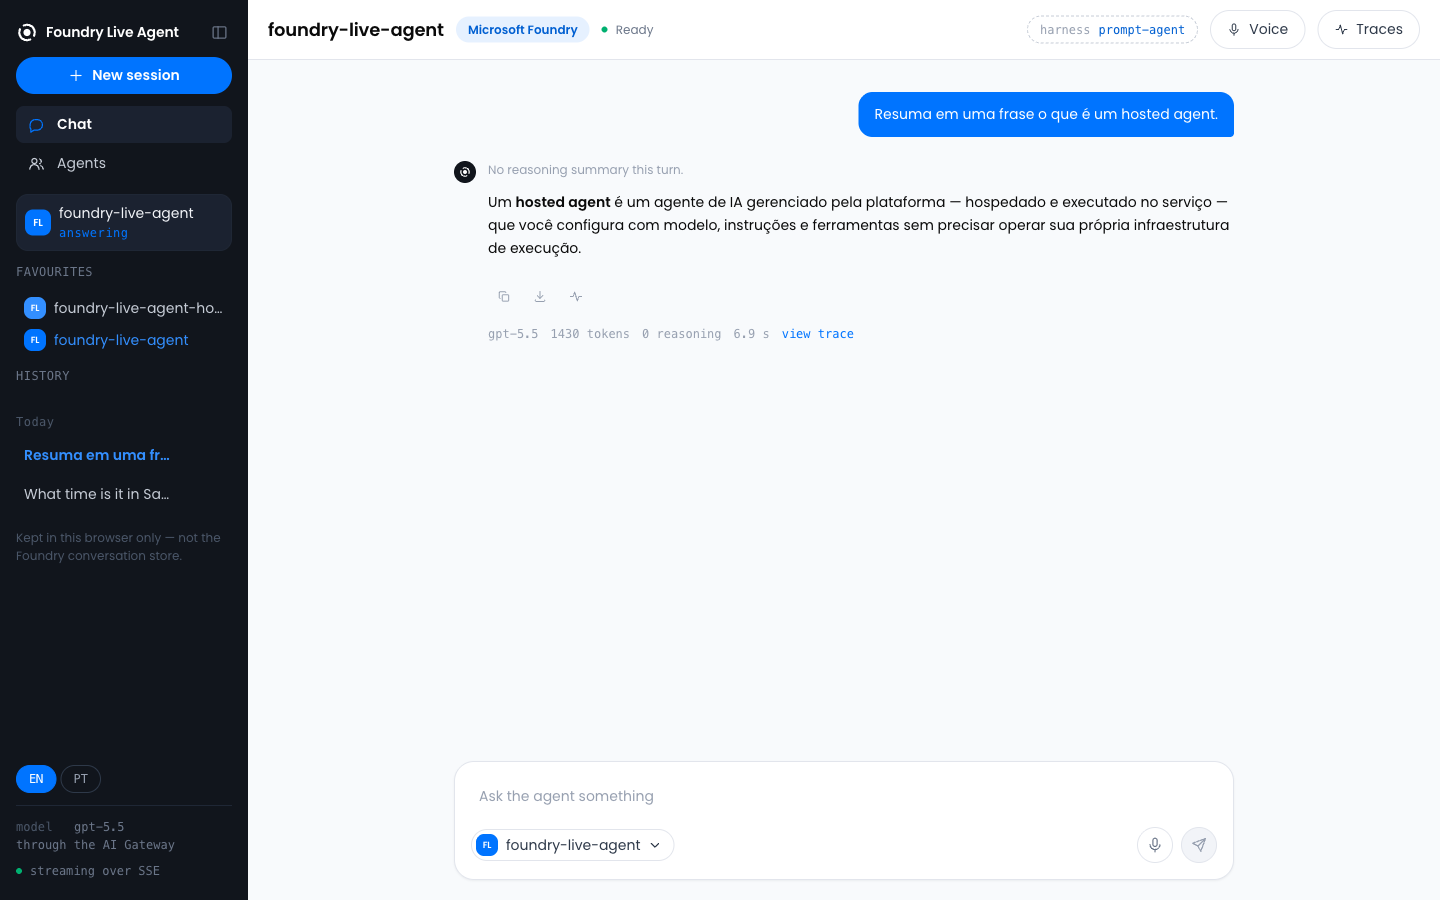
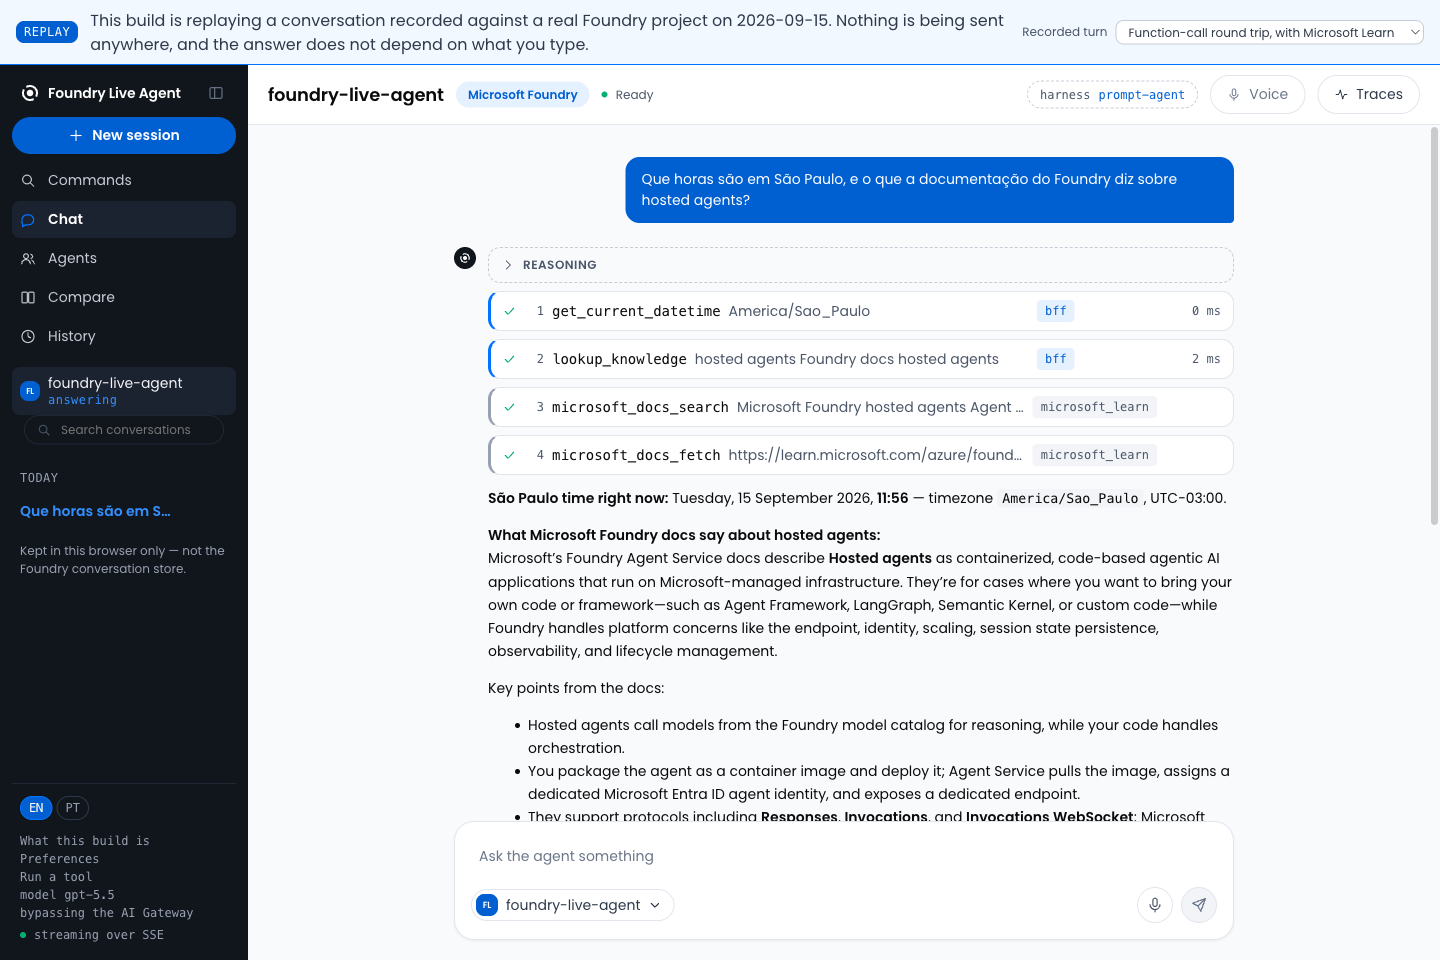
Refactor code structure for improved readability and maintainability

diff --git a/README.pt-BR.md b/README.pt-BR.md
@@ -9,11 +9,12 @@ Chat com streaming · atividade do agente ao vivo · traces distribuídos · voz
 
 <br />
 
-[![A interface do foundry-live-agent — barra lateral com favoritos e histórico local, uma resposta em streaming, o selo do harness no cabeçalho e o link do trace sob a resposta](docs/assets/screenshot-chat.png)](docs/assets/screenshot-chat.png)
+[![Um turno na interface do foundry-live-agent: a pergunta, o card de raciocínio recolhido, quatro linhas numeradas de atividade — duas executadas pelo BFF, duas pelo Foundry — e a resposta](docs/assets/screenshot-chat.png)](docs/assets/screenshot-chat.png)
 
-_Uma execução real. A barra lateral carrega os agentes que você de fato usa e o histórico deste
-navegador; o cabeçalho diz qual harness respondeu; sob a resposta, o modelo, a contagem de tokens e
-o caminho para os spans dela._
+_Um turno inteiro. As duas linhas marcadas `bff` são function tools que **esta aplicação** executou
+porque o Foundry pediu e parou; as duas marcadas `microsoft_learn` rodaram **dentro do Foundry**.
+Essa divisão é a arquitetura, na tela. Capturado com `just demo` — por isso a faixa de reprodução
+aparece: todo print desta página você reproduz sem conta no Azure._
 
 <br />
 
@@ -296,6 +297,13 @@ testes de contrato usam — então o streaming, a ida e volta do function call, 
 contagem de tokens, a árvore de spans e o inspetor de eventos são todos de verdade, chegando pelo
 normalizador de verdade. Escolha qual turno gravado assistir no banner do topo.
 
+![Um turno sendo reproduzido: o card de raciocínio se preenche, quatro linhas de ferramenta chegam uma a uma, e então a resposta faz streaming](docs/assets/demo-streaming-turn.gif)
+
+_Um turno, reproduzido. O resumo do raciocínio chega primeiro, depois as duas function calls que
+esta aplicação executa e as duas chamadas ao Microsoft Learn que o Foundry executa, e então a
+resposta. Nada aqui é mock: são os 310 eventos que o Foundry enviou em 2026-09-15, passando pelo
+mesmo normalizador do caminho ao vivo. Um pouco mais lento para dar para ler._
+
 **Ele não consegue responder a uma pergunta**, e diz isso em todas as telas em vez de deixar você
 descobrir digitando duas vezes. Voz e fala reportam *não configurado*, porque é o que são. A
 demonstração é um **entrypoint separado**: o `create_app` nunca ouviu falar dela, então nenhuma
@@ -342,20 +350,32 @@ Opcional — o AI Gateway é um fluxo de portal sem caminho de IaC: `just gatewa
 
 ## 📸 Telas
 
+Todos os prints abaixo saem do `just demo`, nas larguras indicadas — então cada um é algo que você
+coloca na sua própria tela em cerca de um minuto, sem conta no Azure. A faixa de reprodução no topo
+faz parte daquela build; não é mock.
+
 | | |
 |---|---|
-| ![Um turno que falhou renderizado como erro, com o painel de rastros aberto](docs/assets/screenshot-error-and-trace.png) | ![Uma sessão de voz ao vivo: barras de nível, transcrição, silenciar e encerrar](docs/assets/screenshot-voice.png) |
-| _Um `error` terminal aparece como erro, não como um stream que parou_ | _Uma sessão do Voice Live ao vivo no mesmo agente — a transcrição chega pelo data channel do WebRTC_ |
+| [![A gaveta de trace: totais da execução, ids de response e conversation, o otel trace id, as linhas de atividade do agente e uma árvore de spans com durações](docs/assets/screenshot-trace.png)](docs/assets/screenshot-trace.png) | [![O inspetor de eventos aberto como quarta coluna ao lado da gaveta de trace, listando todos os eventos crus do turno com um filtro por tipo](docs/assets/screenshot-events.png)](docs/assets/screenshot-events.png) |
+| **A gaveta de trace** (specs 005, 014). `invoke_agent` sobre duas chamadas MCP do Learn e a chamada de modelo, com durações reais — e a linha que importa: *"O Foundry rastreia o que o Foundry executa. Ferramentas que esta aplicação executa não deixam span."* É a §8 aparecendo na telemetria. | **O inspetor de eventos** (spec 038), a 1680px, onde ele ganha uma coluna própria. Todos os eventos crus do turno, filtrados por tipo, com o relatório de honestidade do próprio contrato acima: *21 de 25 nomes de evento do Foundry verificados contra uma execução gravada.* |
+| [![A tela de agentes: dez cards de um projeto real, cada um com tipo, versão, status e harness; o hosted desabilitado](docs/assets/screenshot-agents.png)](docs/assets/screenshot-agents.png) | [![A mesma tela de agentes no tema escuro](docs/assets/screenshot-dark.png)](docs/assets/screenshot-dark.png) |
+| **A tela de agentes** (specs 019, 030). Dez agentes de um projeto Foundry real — oito deles este repositório não escreveu. O card desabilitado não é escondido: ele diz, no idioma de quem lê, *por que* não pode responder. | **Dois temas** (spec 036). Claro é a base, escuro é uma escolha explícita, e `system` remove o atributo em vez de escrever um. Todo literal de cor mora na paleta vendorizada; o `app.css` nomeia tokens e um teste garante isso. |
+| [![Dois quadros em largura de celular lado a lado: um turno a 390px, e a barra de navegação aberta por cima dele](docs/assets/screenshot-narrow.png)](docs/assets/screenshot-narrow.png) | [![Um turno que falhou renderizado como card de erro, dizendo "the BFF answered 502"](docs/assets/screenshot-error.png)](docs/assets/screenshot-error.png) |
+| **390px** (spec 047). A barra nunca é escondida — abaixo de 760px ela vem **por cima** da conversa, porque `display: none` também tira o controle da árvore de acessibilidade, e essa barra é o único caminho para cinco das sete telas. | **Um turno que falhou** (spec 003). O BFF foi derrubado no meio da sessão de propósito. Um turno sempre termina em `done` ou `error` e nunca simplesmente emudece — a promessa da §9, renderizada. |
 
-A interface em si está no topo desta página. As duas acima são capturas reais de execuções reais, e
-a primeira mostra o que o app exibe quando o projeto
-do Foundry ainda não tem um model deployment atrás da conexão do gateway: o round trip completou, o
-gateway respondeu `404`, e o contrato transformou isso em um evento terminal em vez de silêncio.
+<details>
+<summary>E um print mais antigo que os outros, de propósito</summary>
 
-Duas ressalvas honestas (constituição §5): as duas foram capturadas **antes** da
-interface atual (spec 021), então a moldura em volta delas é mais velha que a do topo desta página;
-e a árvore de spans — que existe, specs 005 e 014 — ainda não tem captura commitada. Essa falta por
-descuido, não por motivo.
+[![Uma sessão de voz ao vivo: barras de nível, transcrição, silenciar e encerrar](docs/assets/screenshot-voice.png)](docs/assets/screenshot-voice.png)
+
+_Uma sessão do Voice Live ao vivo no mesmo agente — a transcrição chega pelo data channel do WebRTC._
+
+**Este é anterior à interface atual**, e é o único. Uma sessão do Voice Live é uma negociação ao vivo
+com um serviço ao vivo: o `just demo` reporta voz como *não configurada*, porque naquela build ela é,
+e reproduzir uma sessão WebRTC seria o desenho de um recurso em vez do recurso (constituição §5).
+Recapturar exige um deployment.
+
+</details>
 
 ## 🔌 Harnesses
 

diff --git a/README.md b/README.md
@@ -9,11 +9,12 @@ Streaming chat · live agent activity · distributed traces · real-time voice
 
 <br />
 
-[![The foundry-live-agent shell — agent rail with favourites and local history, a streaming answer, the harness badge in the header and the trace link under the answer](docs/assets/screenshot-chat.png)](docs/assets/screenshot-chat.png)
+[![One turn in the foundry-live-agent shell: the question, the collapsed reasoning card, four numbered activity rows — two run by the BFF, two by Foundry — and the answer](docs/assets/screenshot-chat.png)](docs/assets/screenshot-chat.png)
 
-_A real run. The rail carries the agents you actually use and this browser's history; the header
-says which harness answered; under the answer, the model, the token count and the way into its
-spans._
+_One turn, whole. Two rows marked `bff` are function tools **this app** executed because Foundry
+asked and stopped; two marked `microsoft_learn` ran **inside Foundry**. That split is the
+architecture, on screen. Taken from `just demo`, which is why the replay banner is there — every
+screenshot on this page is one you can reproduce with no Azure account._
 
 <br />
 
@@ -293,6 +294,13 @@ use — so the streaming, the function-call round trip, the MCP calls, the token
 tree and the event inspector are all the real thing, arriving through the real normaliser. Pick
 which recorded turn to watch from the banner at the top.
 
+![A turn replaying: the reasoning card fills in, four tool rows land one by one, then the answer streams in](docs/assets/demo-streaming-turn.gif)
+
+_One turn, replayed. The reasoning summary arrives first, then the two function calls this app runs
+and the two Microsoft Learn calls Foundry runs, then the answer. Nothing here is a mock: these are
+the 310 events Foundry sent on 2026-09-15, through the same normaliser the live path uses. Slowed
+a little so it can be read._
+
 **It cannot answer a question**, and it says so on every screen rather than letting you find out by
 typing twice. Voice and speech report *not configured*, because they are. The demo is a **separate
 entrypoint**: `create_app` has never heard of it, so no environment variable can make a real
@@ -337,20 +345,32 @@ Optional — the AI Gateway is a portal flow with no IaC path: `just gateway` pr
 
 ## 📸 Screenshots
 
+Every shot below is from `just demo`, at the widths named — so each one is a thing you can put on
+your own screen in about a minute, with no Azure account. The replay banner across the top is part
+of that build and not a mock-up.
+
 | | |
 |---|---|
-| ![A failed turn rendered as an error, with the trace panel open](docs/assets/screenshot-error-and-trace.png) | ![A live voice session: level bars, transcript, mute and end](docs/assets/screenshot-voice.png) |
-| _A terminal `error` renders as an error, not as a stream that stopped_ | _A live Voice Live session on the same agent — the transcript arrives on the WebRTC data channel_ |
+| [![The trace drawer: run totals, response and conversation ids, the otel trace id, the agent activity rows and a span tree with durations](docs/assets/screenshot-trace.png)](docs/assets/screenshot-trace.png) | [![The event inspector open as a fourth column beside the trace drawer, listing every raw event of the turn with a type filter](docs/assets/screenshot-events.png)](docs/assets/screenshot-events.png) |
+| **The trace drawer** (specs 005, 014). `invoke_agent` over two Learn MCP calls and the model call, with real durations — and the line that matters: *"Foundry traces what Foundry runs. Tools this app executes leave no span."* That is §8 showing up in telemetry. | **The event inspector** (spec 038), at 1680px where it takes a column of its own. Every raw event of the turn, filtered by type, with the contract's own honesty report above it: *21 of 25 Foundry event names verified against a recorded run.* |
+| [![The agents screen: ten agent cards from a real project, each with kind, version, status and harness; the hosted one dimmed](docs/assets/screenshot-agents.png)](docs/assets/screenshot-agents.png) | [![The same agents screen in the dark theme](docs/assets/screenshot-dark.png)](docs/assets/screenshot-dark.png) |
+| **The agents screen** (specs 019, 030). Ten agents from a real Foundry project — eight of which this repository did not write. The dimmed card is not hidden: it says, in the reader's language, *why* it cannot answer. | **Two themes** (spec 036). Light is the base, dark is an explicit choice, and `system` removes the attribute rather than writing one. Every colour literal lives in the vendored palette; `app.css` names tokens and a test enforces it. |
+| [![Two phone-width frames side by side: a turn at 390px, and the navigation rail open over it](docs/assets/screenshot-narrow.png)](docs/assets/screenshot-narrow.png) | [![A failed turn rendered as an error card reading "the BFF answered 502"](docs/assets/screenshot-error.png)](docs/assets/screenshot-error.png) |
+| **390px** (spec 047). The rail is never hidden — below 760px it comes **over** the conversation, because `display: none` takes a control out of the accessibility tree too, and this one is the only route to five of the seven screens. | **A turn that failed** (spec 003). The BFF was stopped mid-session on purpose. A turn always ends in `done` or `error` and never just goes quiet — §9's promise, rendered. |
 
-The shell itself is at the top of this page. Both of these are real screenshots of real runs, and
-the first is what the app shows when the Foundry
-project has no model deployment behind the gateway connection yet: the round trip completed, the
-gateway answered `404`, and the contract turned that into a terminal event instead of silence.
+<details>
+<summary>And one shot that is older than the rest, on purpose</summary>
 
-Two honest caveats (constitution §5): both shots were taken **before** the current
-shell (spec 021), so the chrome around them is older than the one at the top of this page; and the
-span tree — which ships, specs 005 and 014 — has no committed capture yet. That one is missing out
-of neglect, not for a reason.
+[![A live voice session: level bars, a transcript, mute and end session](docs/assets/screenshot-voice.png)](docs/assets/screenshot-voice.png)
+
+_A live Voice Live session on the same agent — the transcript arrives on the WebRTC data channel._
+
+**This one predates the current shell**, and it is the only one that does. A Voice Live session is a
+live negotiation with a live service: `just demo` reports voice as *not configured*, because in that
+build it is, and replaying a WebRTC session would be a drawing of a feature rather than the feature
+(constitution §5). Re-taking it needs a deployment.
+
+</details>
 
 ## 🔌 Harnesses
 

diff --git a/CHANGELOG.md b/CHANGELOG.md
@@ -59,6 +59,20 @@ and this project adheres to [Semantic Versioning](https://semver.org/spec/v2.0.0
   `/preferences`, and only where the deployment enabled it: a door onto a 403 is worse than no door.
 
 ### Changed
+- **Every screenshot in the README is new, and every one of them is reproducible.** They are taken
+  from `just demo`, at the widths they name, so a reader can put the same frame on their own screen
+  in a minute with no Azure account — which is also why the replay banner is in all of them. Added:
+  a **GIF of a turn replaying** (the reasoning card, four tool rows landing one by one, the answer),
+  the **trace drawer with its span tree**, the **event inspector as a fourth column**, the **agents
+  screen** with ten agents from a real project, the **dark theme**, and **390px** with the rail over
+  the conversation. The span tree closes a gap the README itself had listed as "missing out of
+  neglect, not for a reason" since spec 014.
+  - `screenshot-error-and-trace.png` is **replaced** by a freshly captured error card (the BFF
+    stopped mid-session on purpose: *the BFF answered 502*) and by the new trace shot. Both of the
+    old captures predated the current shell, which the README had been apologising for in prose.
+  - `screenshot-voice.png` stays, and is now the **only** older asset. It is behind a `<details>`
+    that says why: `just demo` reports voice as *not configured*, because in that build it is, and a
+    replayed WebRTC session would be a drawing of a feature rather than the feature (§5).
 - **The README's status block was two months stale, in both languages.** It claimed specs 000–019,
   021 and 022 were done and that spec 020 was "clarified and not built yet" — against 48 of 50 done
   and `/compare` shipped. `specs/README.md` already carries the per-spec table and already records
